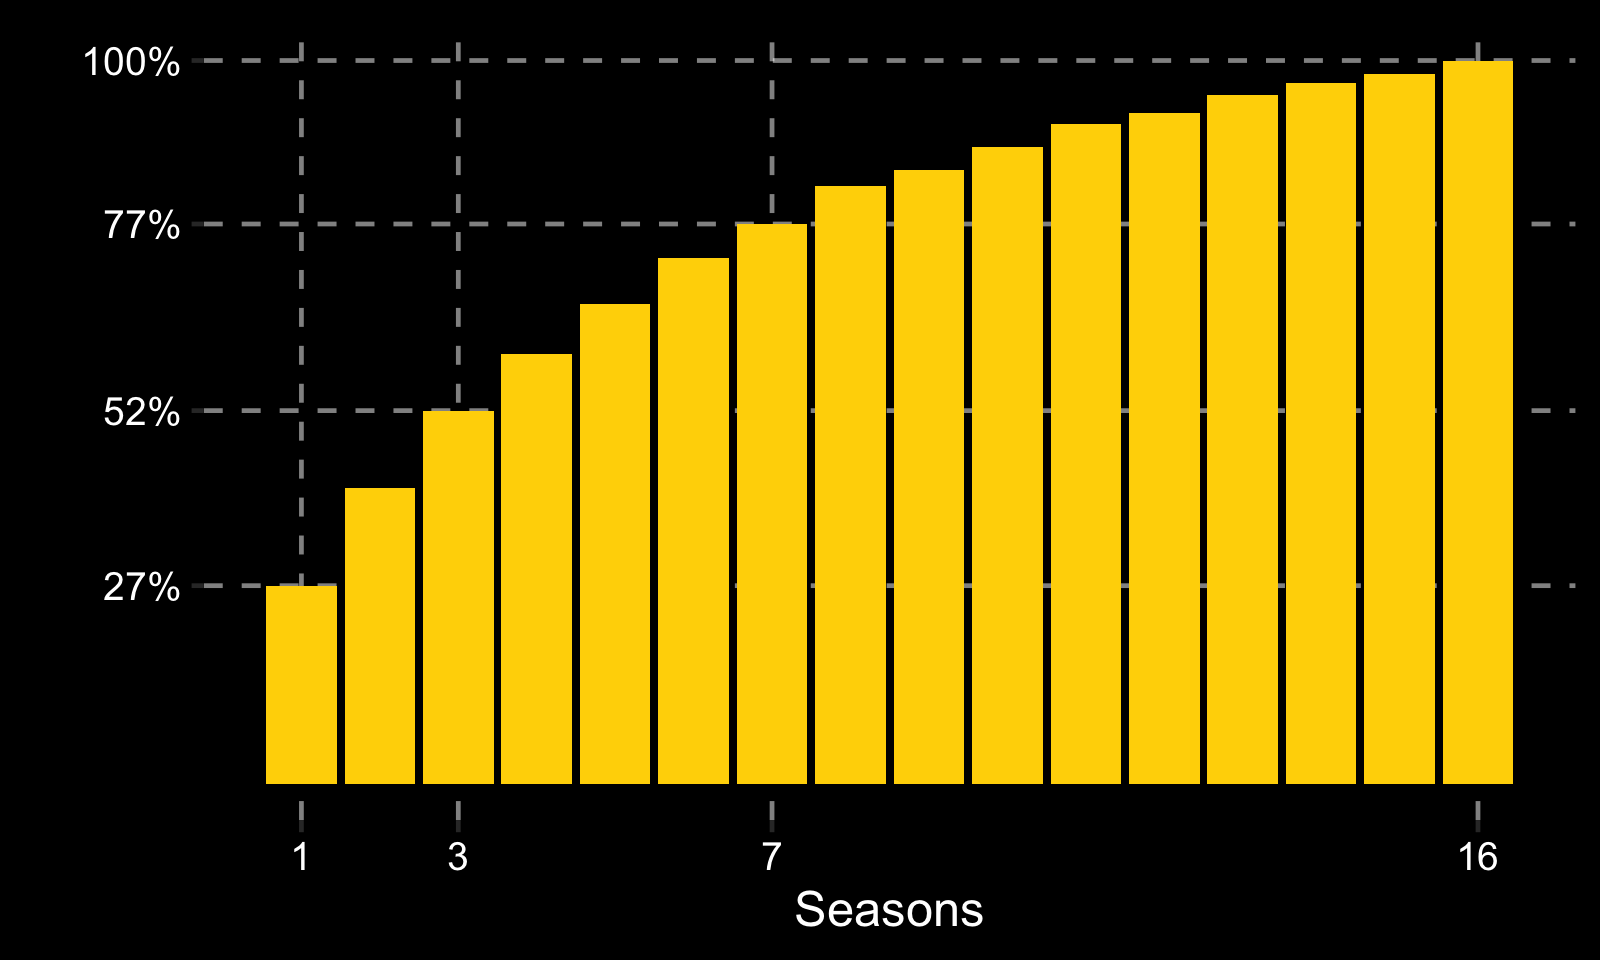
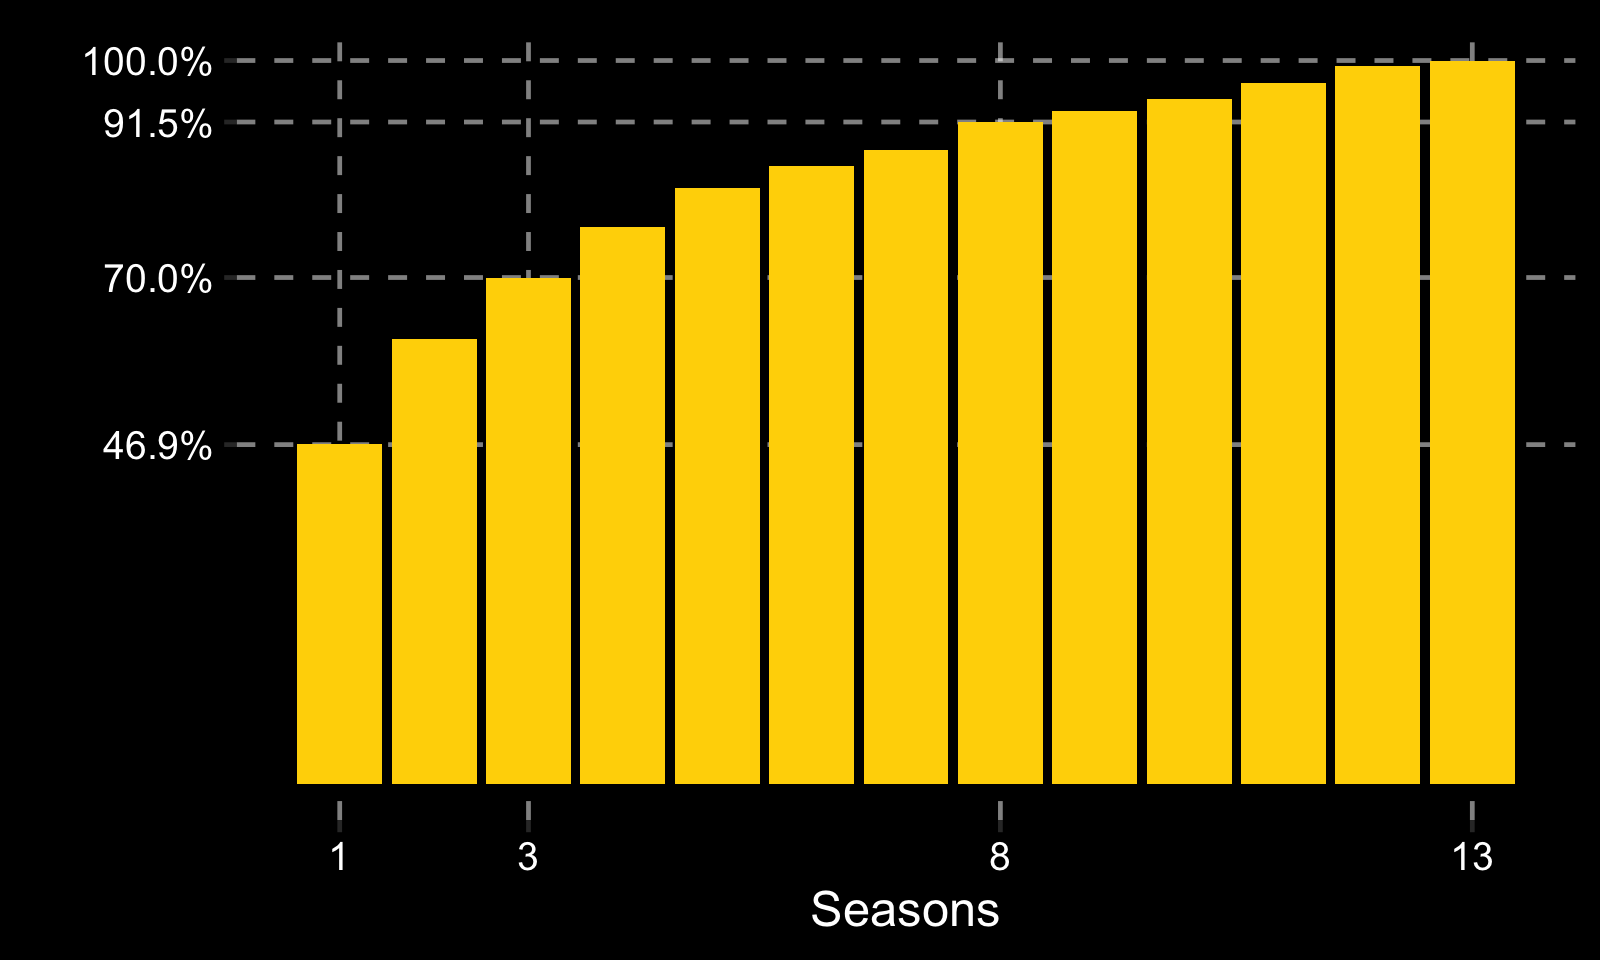
new cdf

diff --git a/_posts/2023-05-24-goalie-consistency-6.md b/_posts/2023-05-24-goalie-consistency-6.md
@@ -16,16 +16,16 @@ Assumptions:
     - Team systems are assumed to be identical.
 </p>
 <p>
-I'm going to address the second point in this post, but before I do, I wanted to share an interesting (though probably intuitive) finding. Below is the cumulative distribution function for seasons played by goalies. It shows that less than 50% of goalies who have played an NHL game end up playing over 3 seasons.
+I'm going to address the second point in this post, but before I do, I wanted to share an interesting (though probably intuitive) finding. Below is the cumulative distribution function for seasons played during their career for goalies who haven't played the first (2007-2008) or last season (2022-2023) from the available data (this way we remove goalies who are in the middle of their careers). It shows that almost 50% of goalies who have played an NHL game ended up only playing one season.
 </p>
 <p>
 <div style="text-align: center"> <img src="https://spazznolo.github.io/figs/goalie-six-one.png" width="60%" length="150"/></div>
 </p>
 <p>
 Summary of findings:
-    - Over 25% of goalies play only one season.
-    - Over 50% of goalies play three seasons or less.
-    - Over 75% of goalies play seven seasons or less.
+    - 47% of goalies played only one season.
+    - 70% of goalies played three seasons or less.
+    - 91% of goalies played eight seasons or less.
 </p>
 <p>
 Code available here: <a href="https://github.com/spazznolo/goalie-consistency/blob/main/post_6.R">https://github.com/spazznolo/goalie-consistency/blob/main/post_6.R</a>
